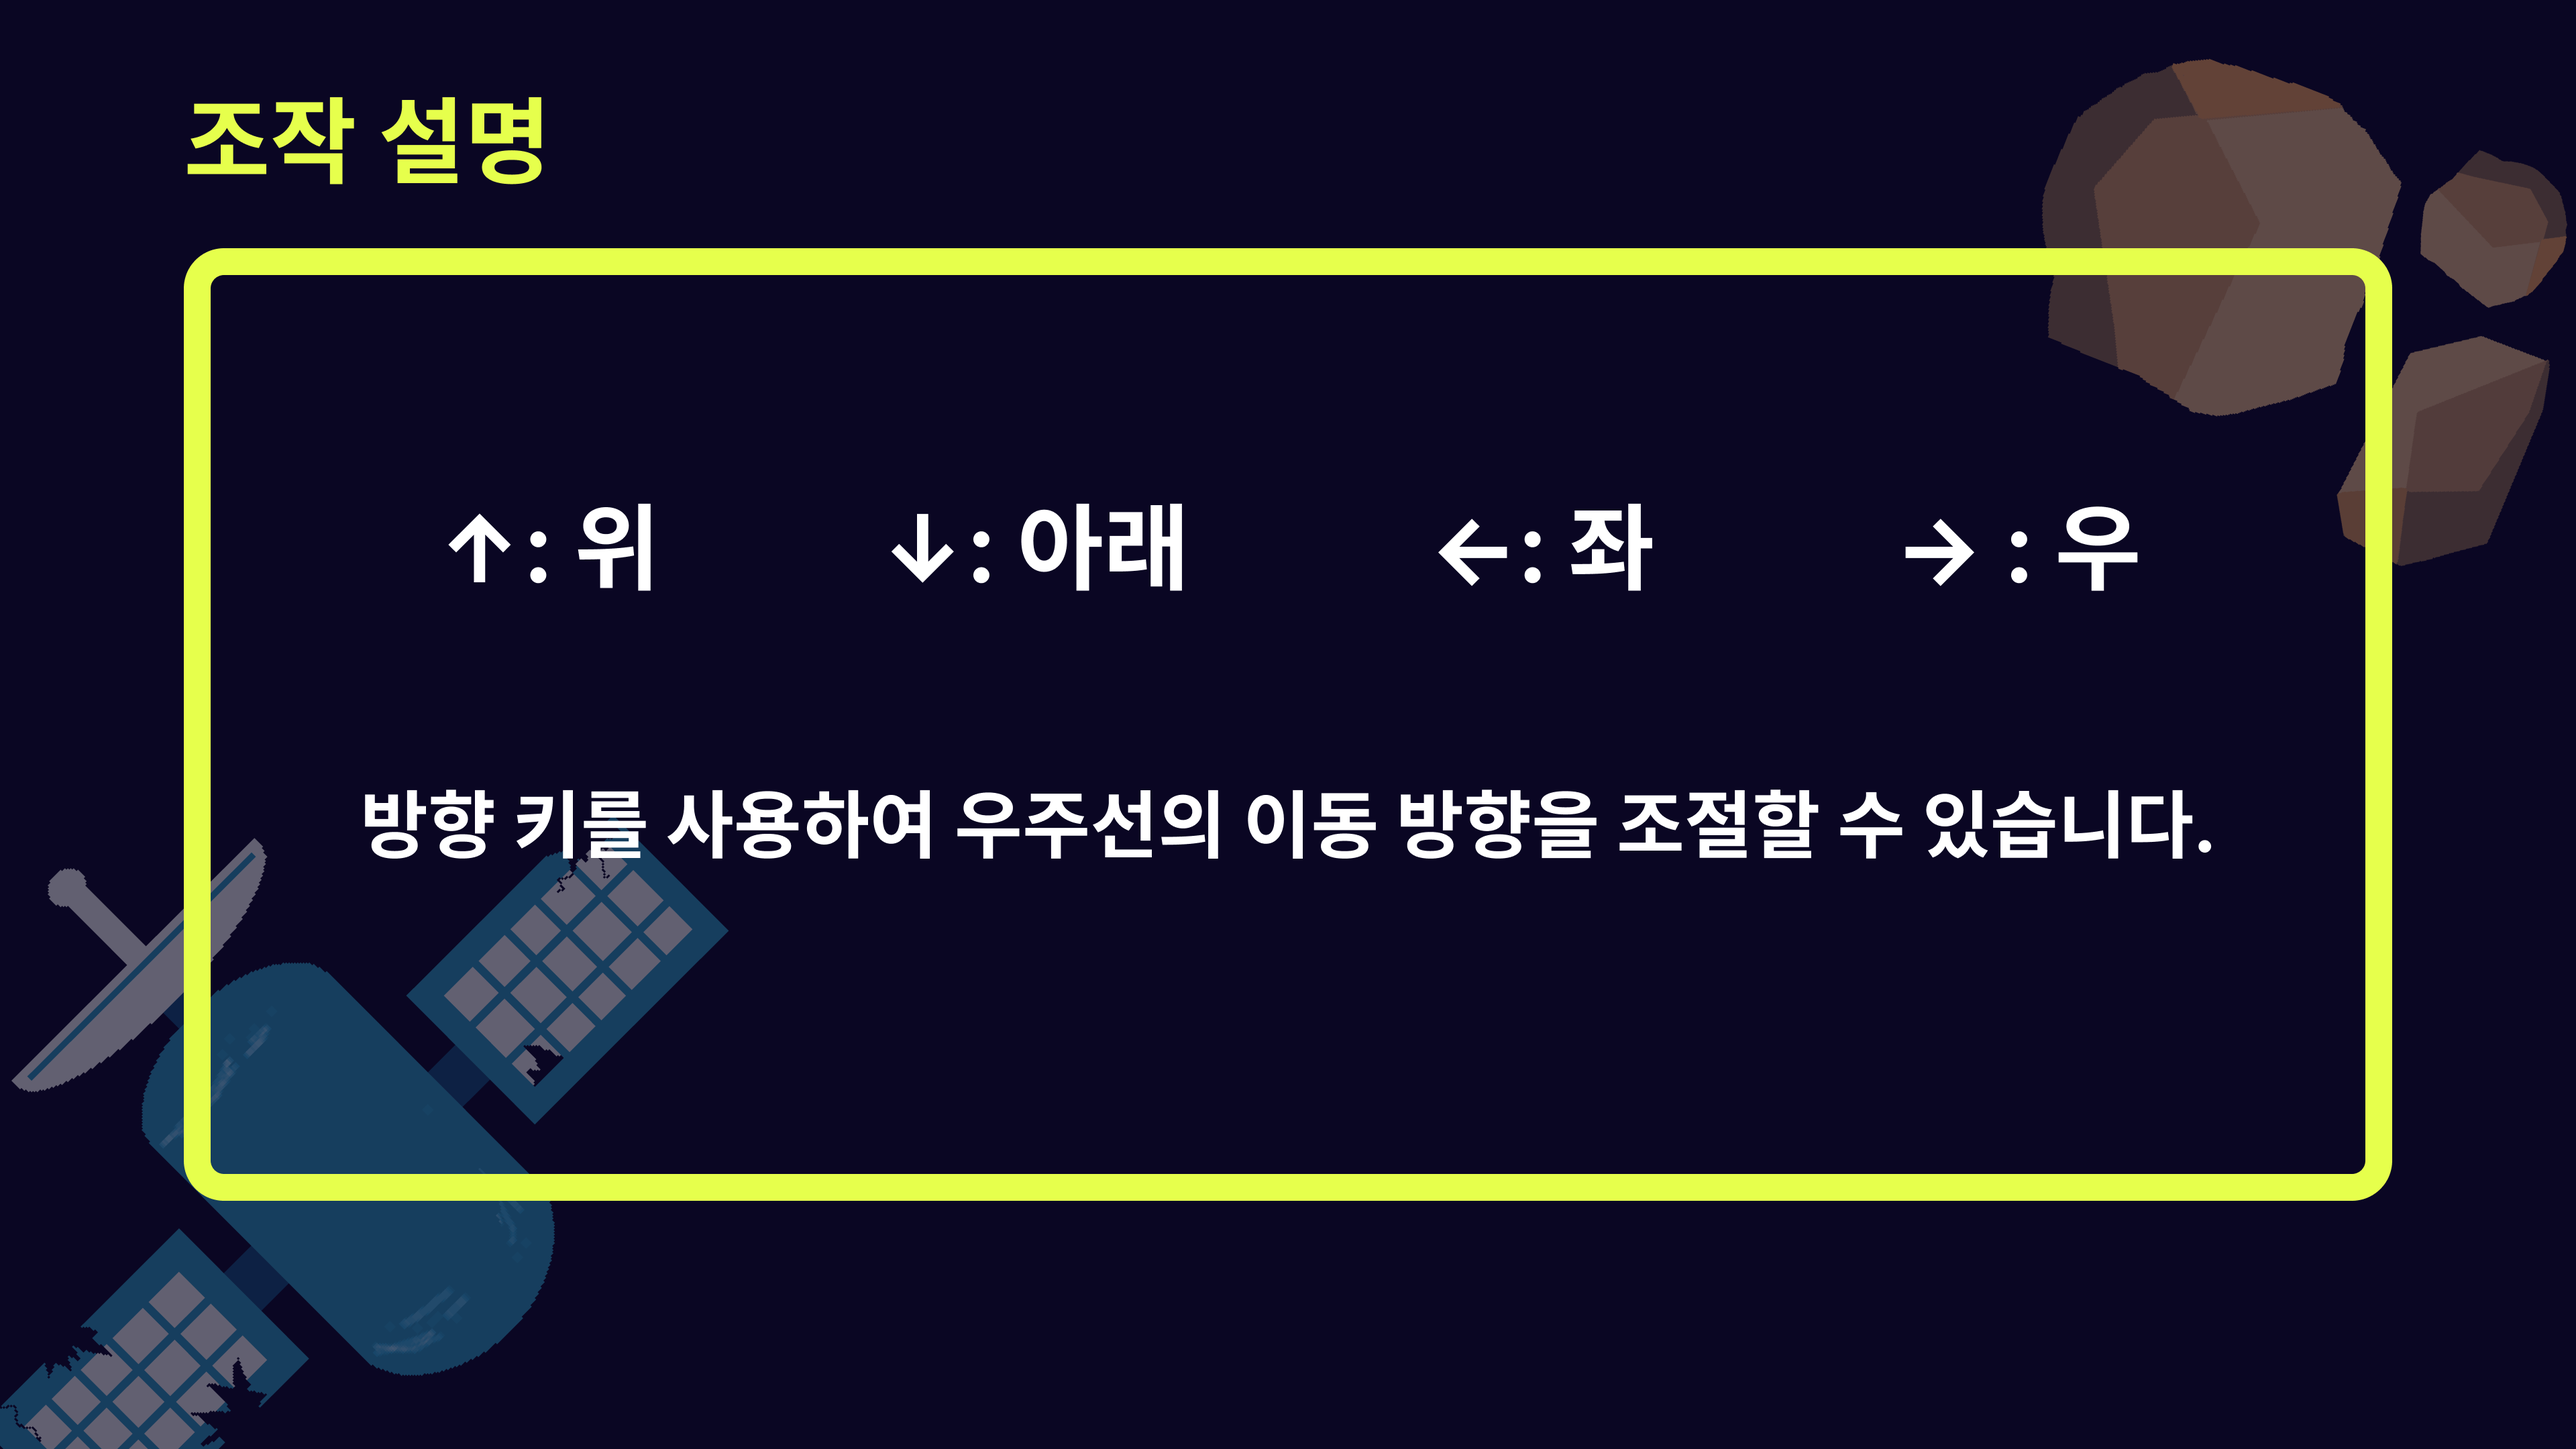
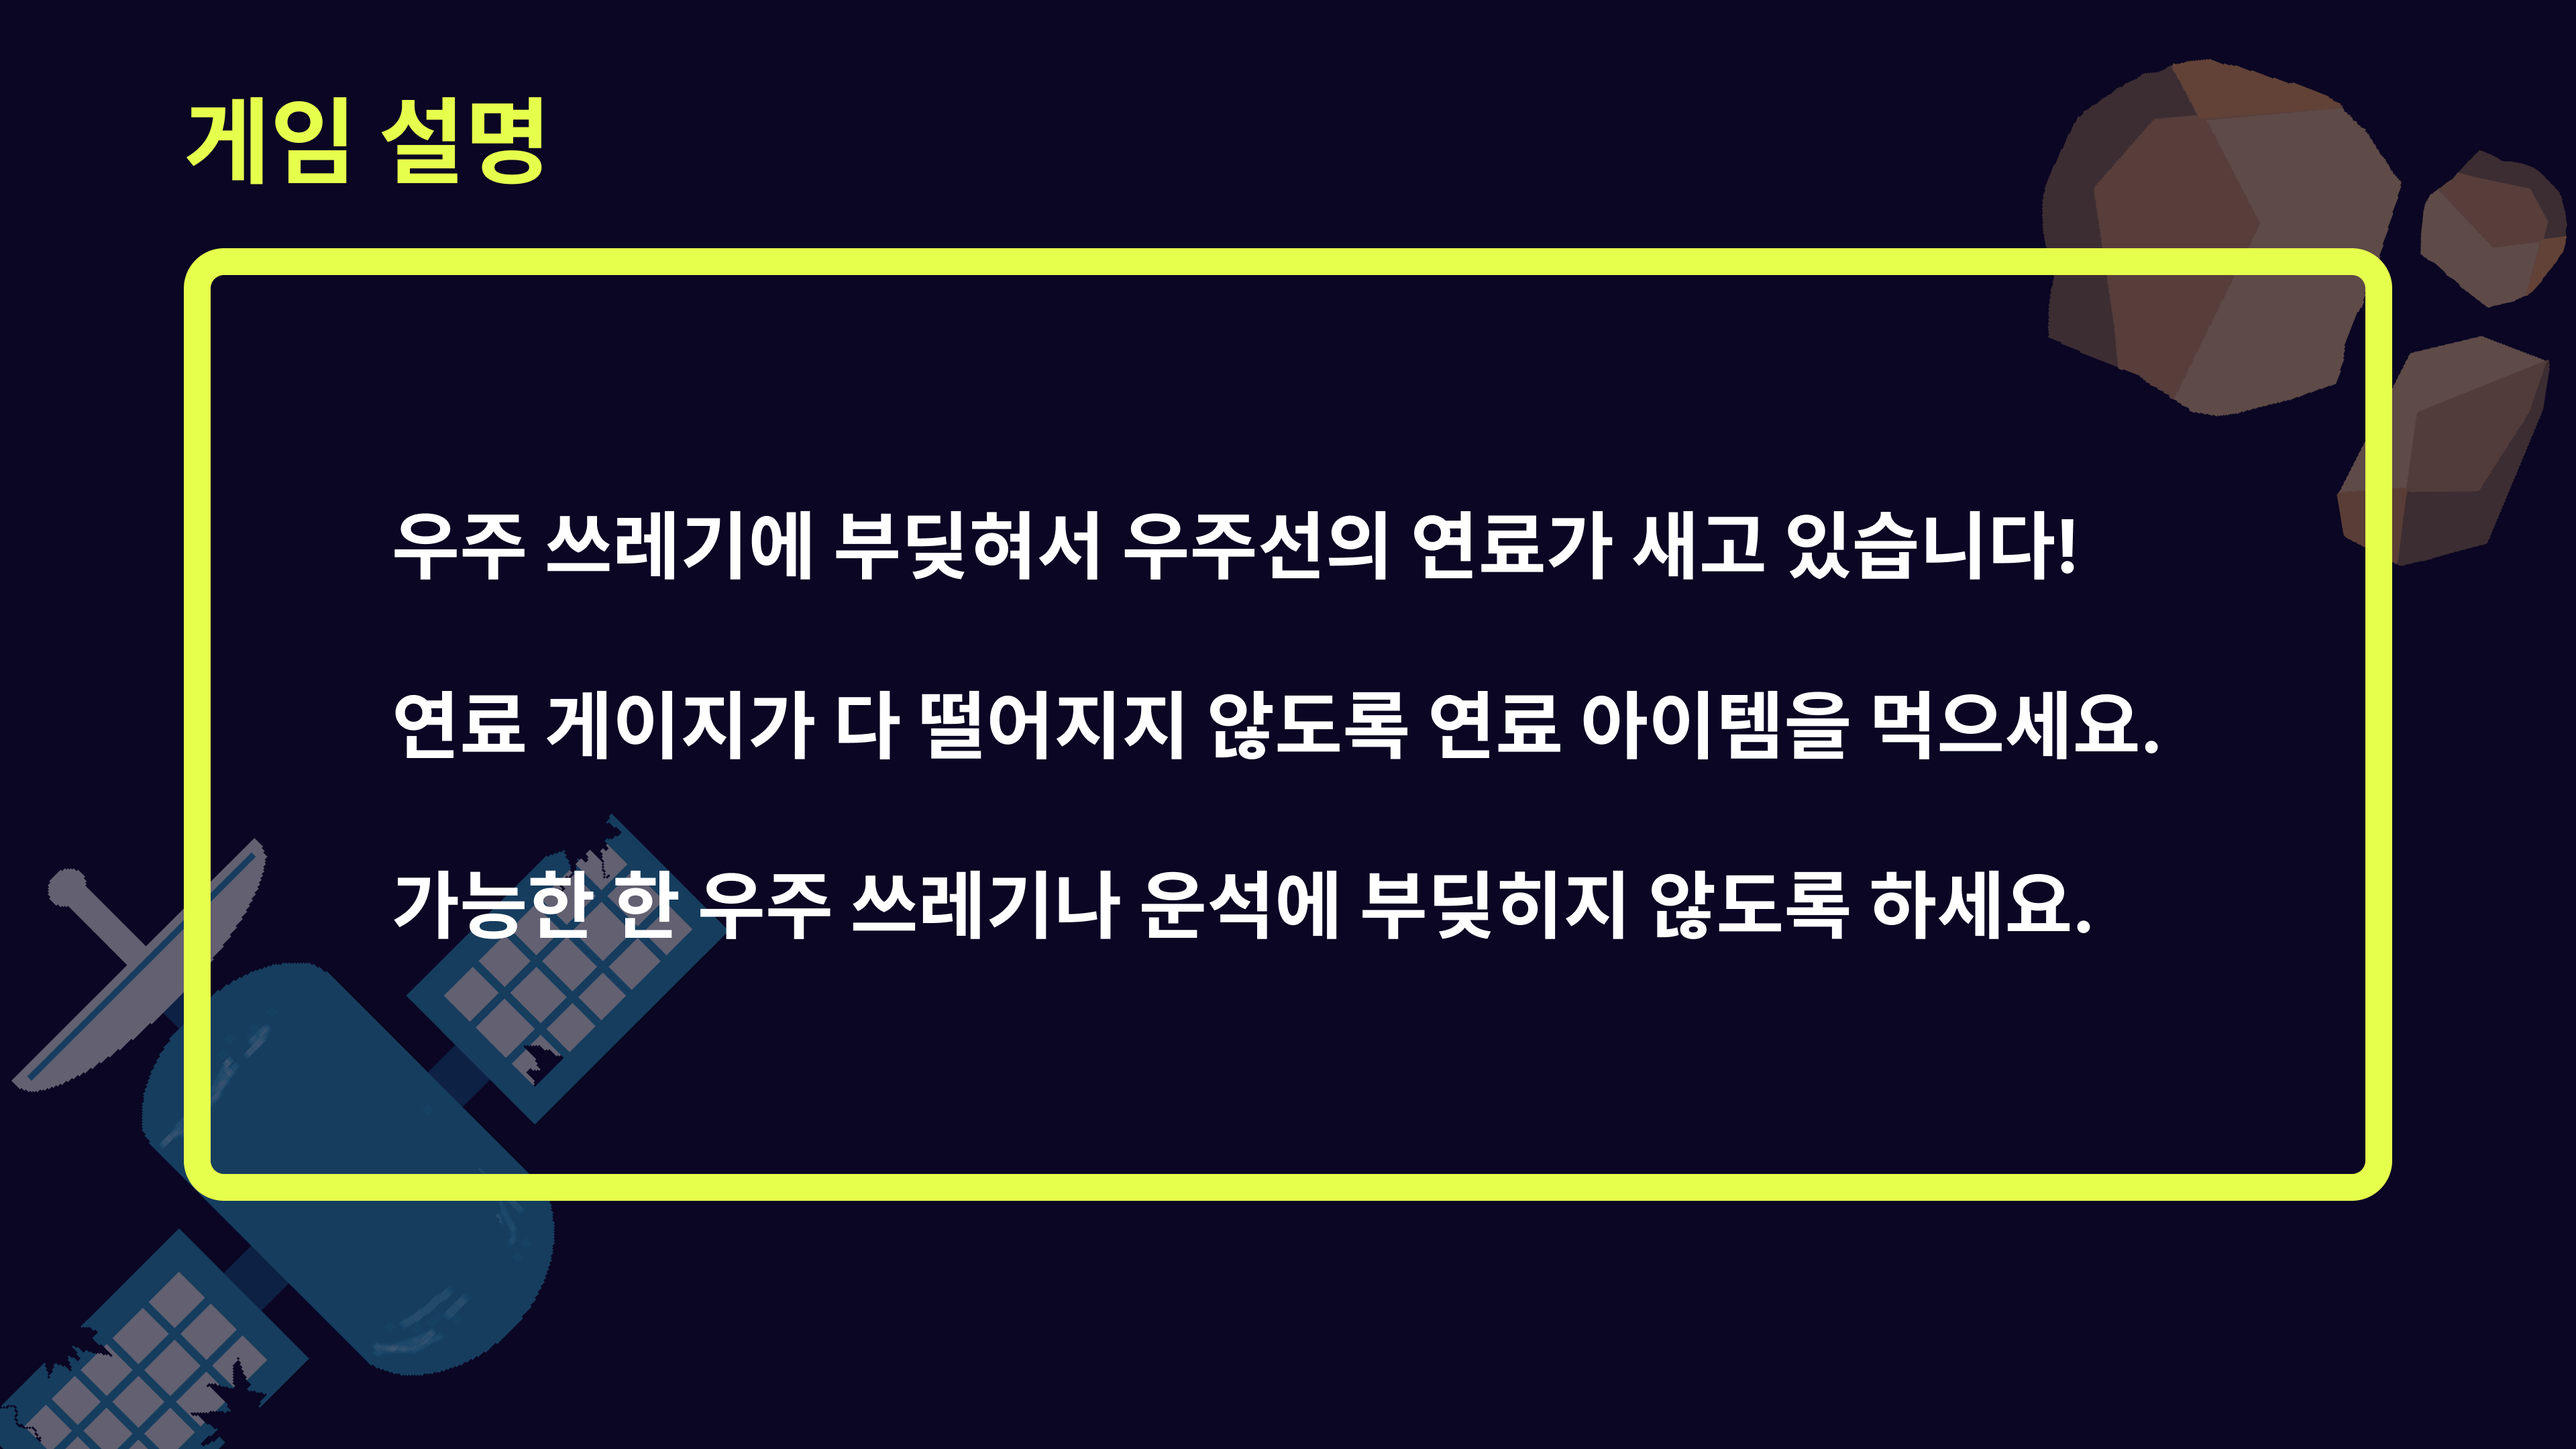
이미지 파일 경로 변경, 화면 띄우기

Changed region(s): [[0.125, 0.4653, 0.875, 0.6514], [0.1562, 0.3412, 0.8438, 0.4032], [0.0625, 0.062, 0.1562, 0.1241]]

diff --git a/src/Rule.java b/src/Rule.java
@@ -1,2 +1,67 @@
-public class Rule {
+import javax.swing.*;
+import java.awt.*;
+import java.awt.event.MouseAdapter;
+import java.awt.event.MouseEvent;
+
+public class Rule extends JFrame {
+    private Image screenImage;
+    private Graphics screenGraphic;
+
+    // 배경 이미지
+    private Image background = new ImageIcon(ToTheMoon.class.getResource("img/SpaceGameRule1.png")).getImage().getScaledInstance(1920, 1080, 0);;
+
+    // 다음 버튼
+    private final Image NextButtonImage = new ImageIcon(ToTheMoon.class.getResource("Arrow.png")).getImage();
+    private Image NextButton1 = NextButtonImage.getScaledInstance(167, 125, 0);
+    private ImageIcon NextButton = new ImageIcon(NextButton1);
+
+    private JButton NextJButton = new JButton(NextButton);
+
+    public Rule() {
+        setUndecorated(true);
+        setSize(1920, 1080);
+        setVisible(true);
+        setBackground(new Color(0, 0, 0, 0));
+        setLayout(null);
+
+        // 다음 버튼 생성
+        NextJButton.setBounds(1691, 925, 167, 125);
+        NextJButton.setBorderPainted(false);
+        NextJButton.setContentAreaFilled(false);
+        NextJButton.setFocusPainted(false);
+        NextJButton.addMouseListener(new MouseAdapter() {
+            @Override
+            public void mouseEntered(MouseEvent e) {
+                setCursor(new Cursor(Cursor.HAND_CURSOR));
+            }
+            @Override
+            public void mouseExited(MouseEvent e) {
+                setCursor(new Cursor(Cursor.DEFAULT_CURSOR));
+            }
+            @Override
+            public void mousePressed(MouseEvent e) {
+//                new Rule2();
+            }
+        });
+        add(NextJButton);
+    }
+
+    // 그리는 함수
+    public void paint(Graphics g) {
+        GraphicsEnvironment.getLocalGraphicsEnvironment().getDefaultScreenDevice().setFullScreenWindow(null);
+        screenImage = createImage(1920, 1080);
+        screenGraphic = screenImage.getGraphics();
+        screenDraw(screenGraphic);
+        g.drawImage(screenImage, 0, 0, null);	// background를 그려줌
+    }
+
+    public void screenDraw(Graphics g) {
+        g.drawImage(background , 0, 0, null);
+        paintComponents(g);
+        this.repaint();	// paint 함수로 돌아감
+    }
+
+    public static void main(String[] args) {
+        new Rule();
+    }
 }
